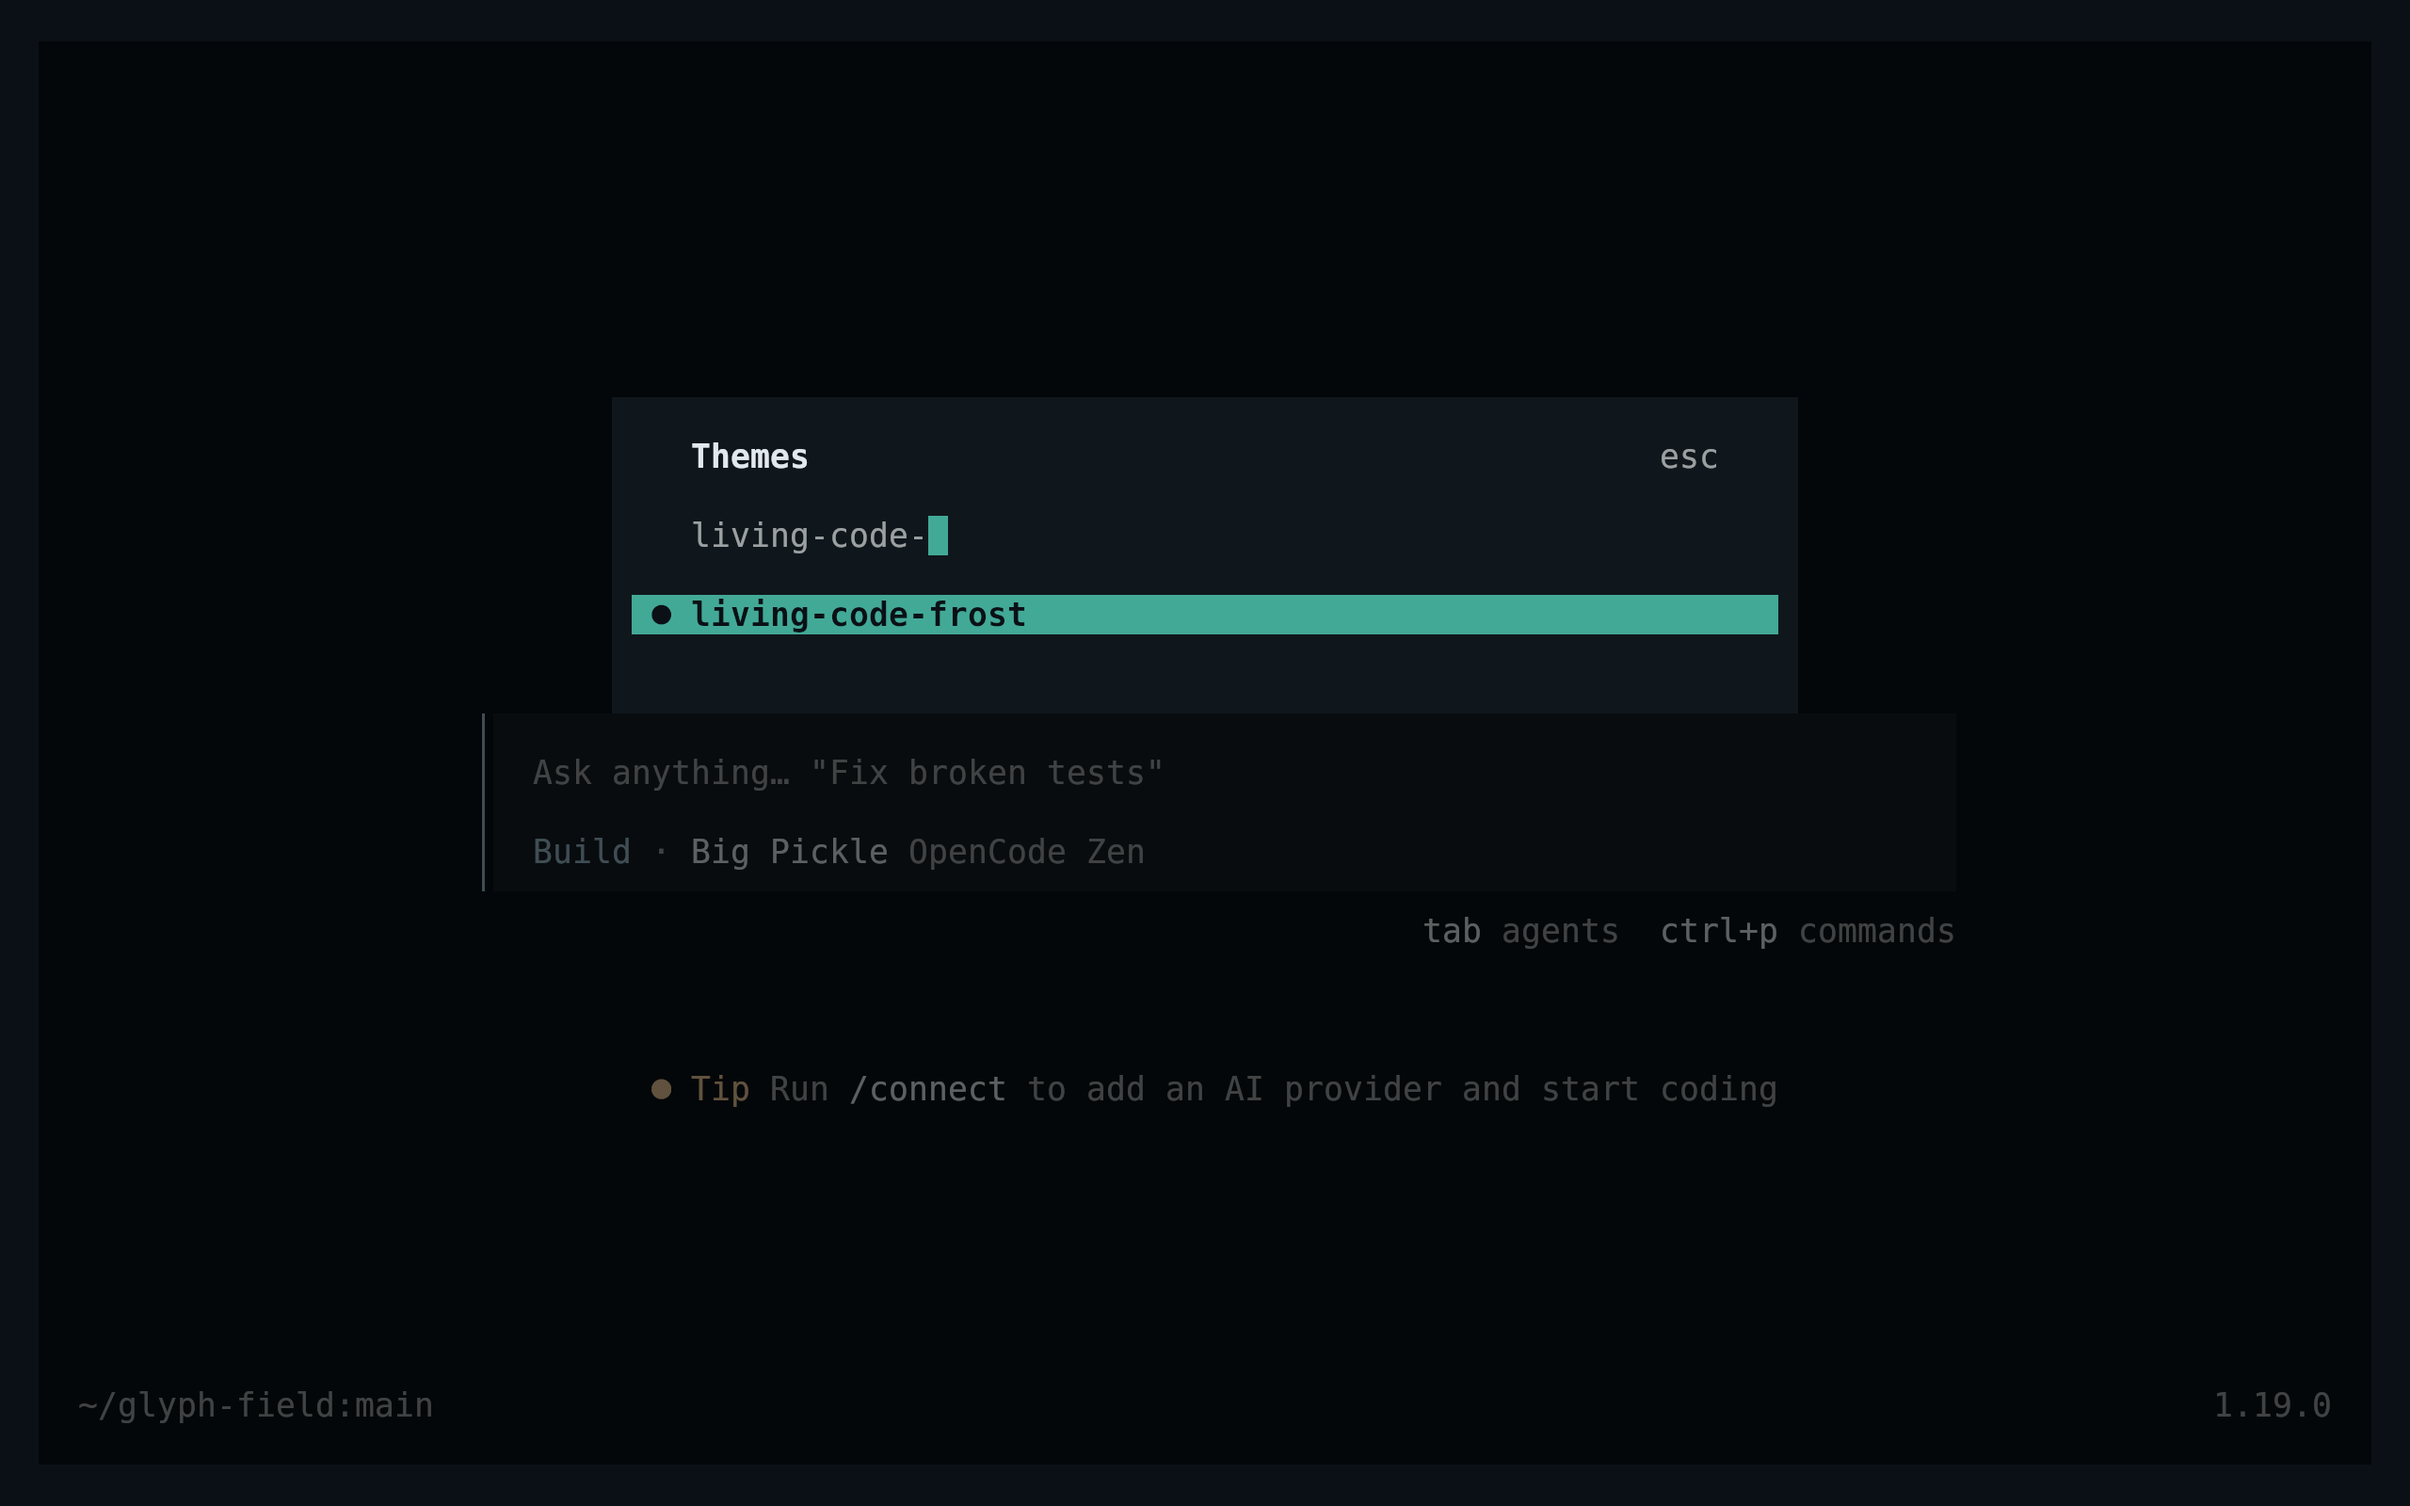
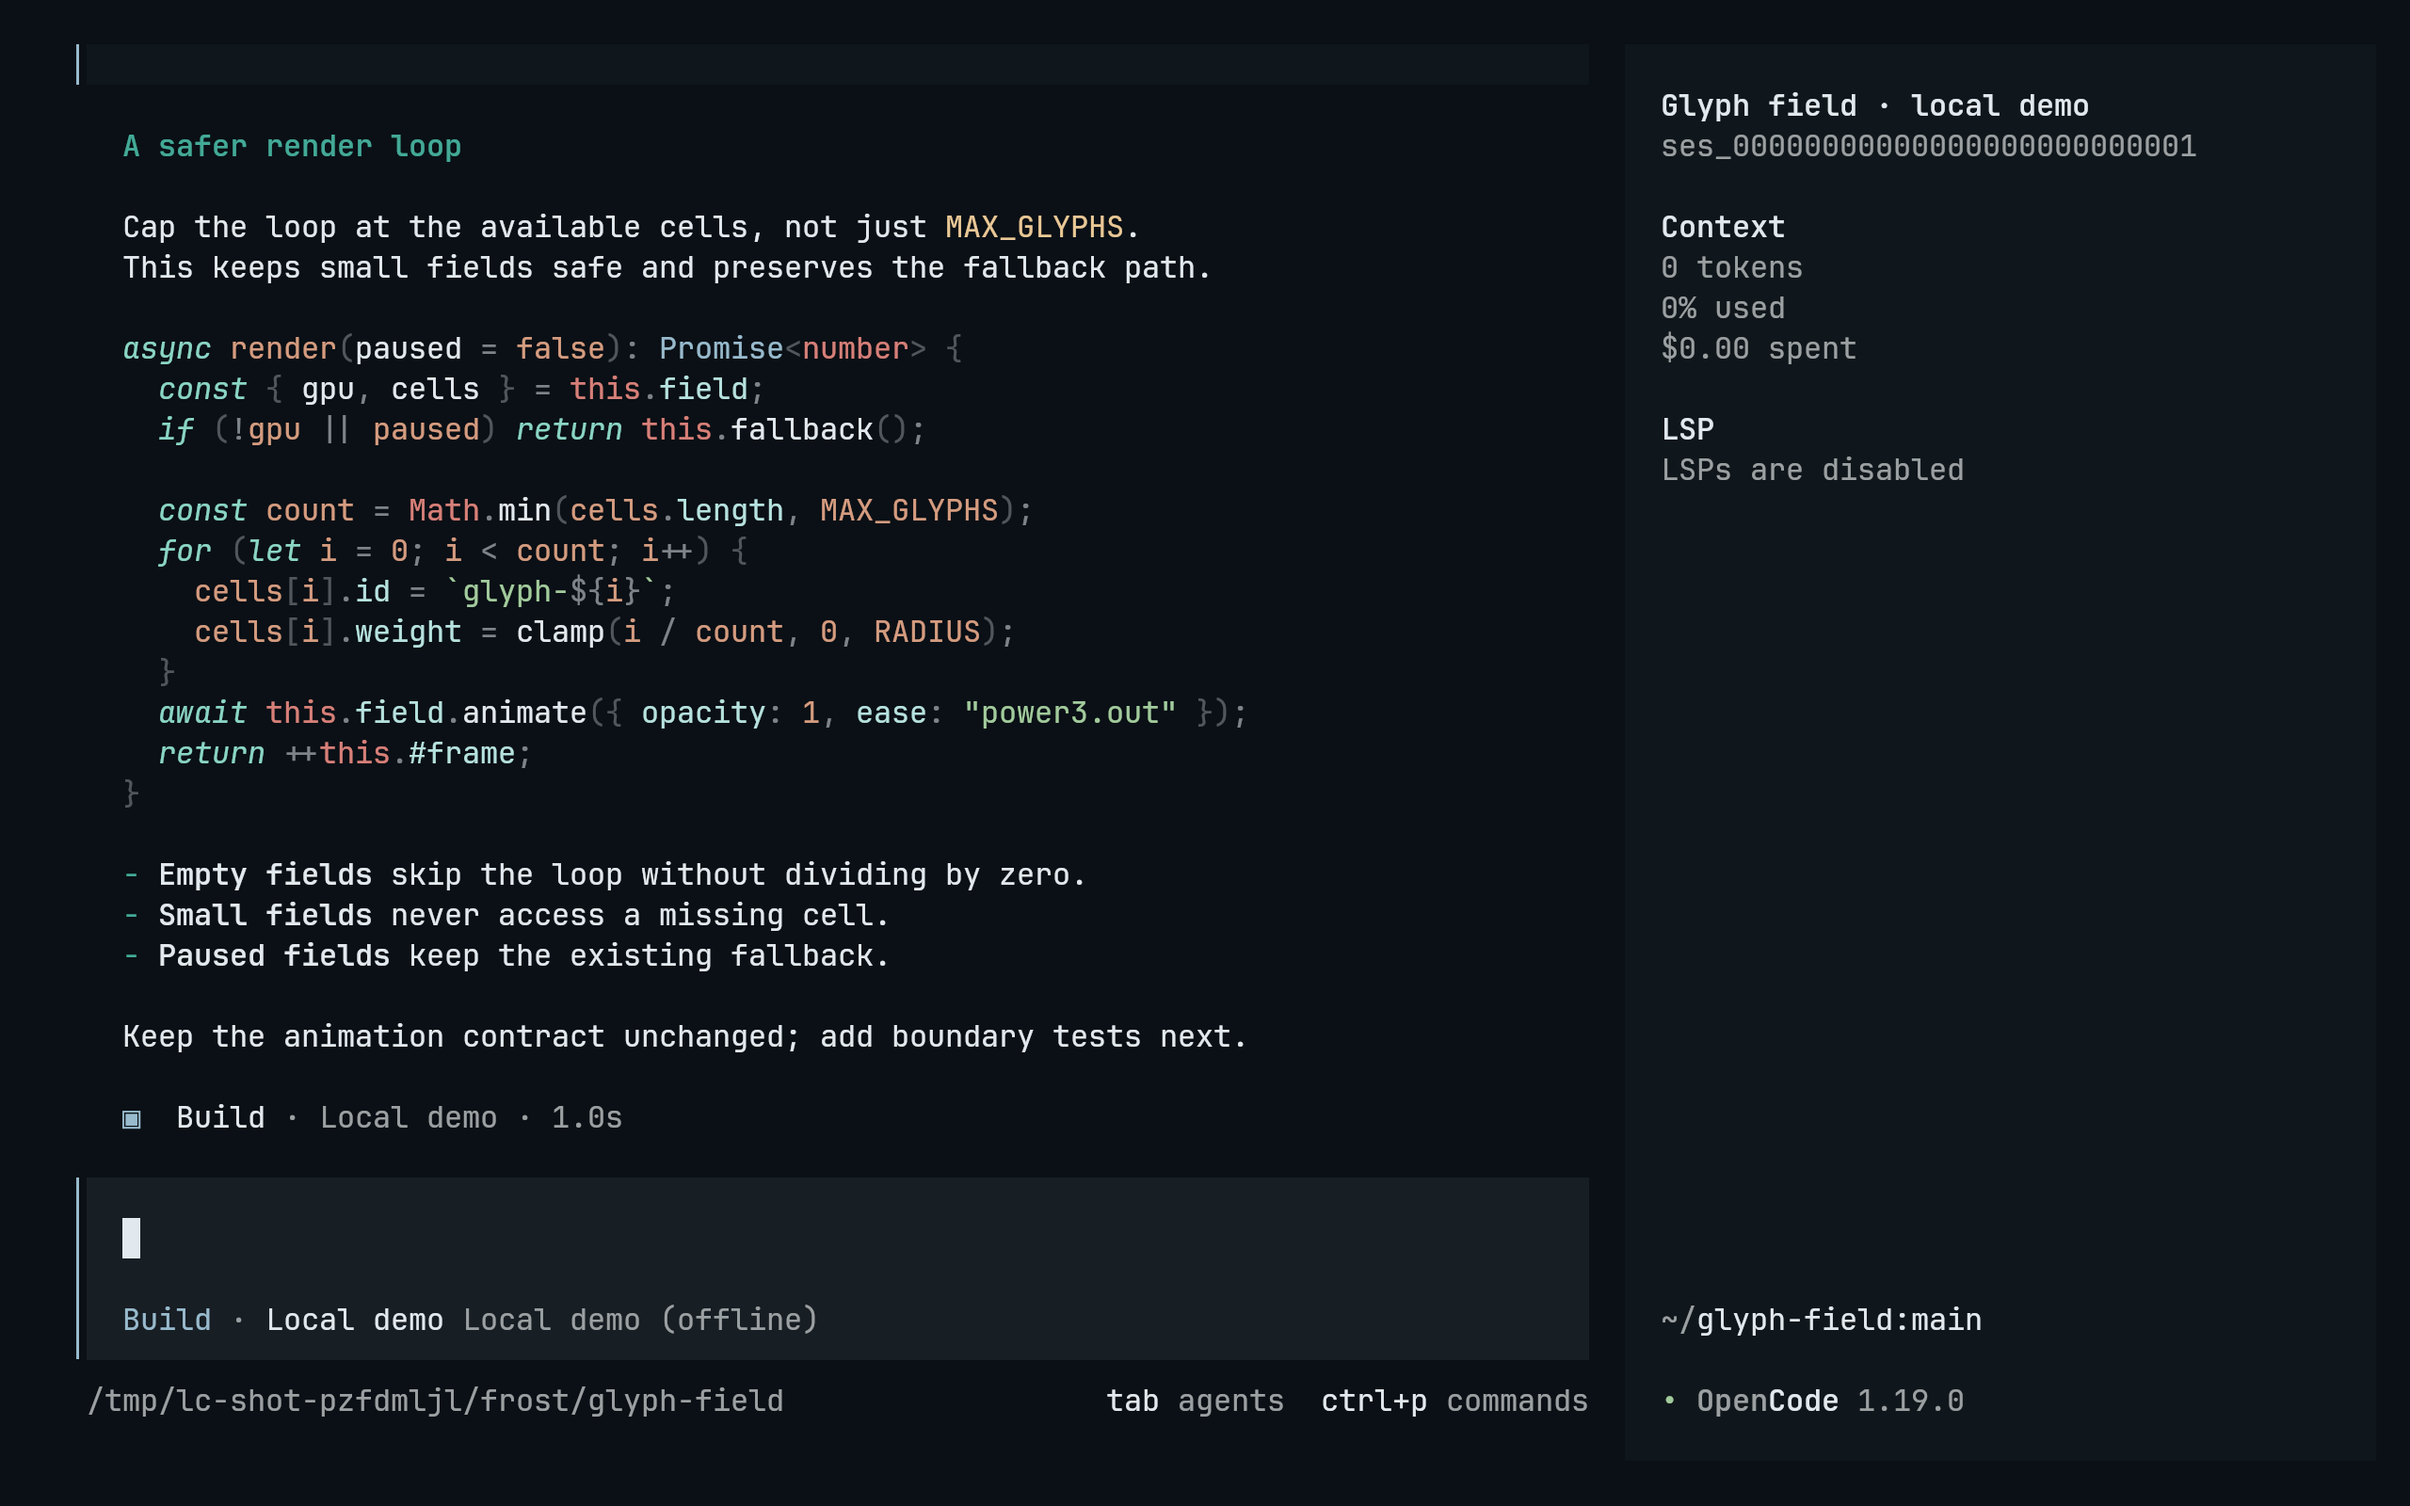
feat: refresh native review previews and verify syntax roles

diff --git a/capture/app.py b/capture/app.py
@@ -1,22 +1,51 @@
-"""Capture OpenCode's actual v1 TUI and its native theme selector."""
+"""Import a port-owned local demo and capture OpenCode's native session view."""
 import json
+
+
+SESSION = 'ses_00000000000000000000000001'
 
 
 def prepare(c):
     c.git_fixture()
     c.copy(f'themes/{c.slug}.json', f'.config/opencode/themes/{c.slug}.json')
     c.write('.config/opencode/tui.json', json.dumps({'theme': c.slug}))
-    c.write('.config/opencode/opencode.json', '{}\n')
+    c.write('.config/opencode/opencode.json', json.dumps({
+        'model': 'local-demo/offline',
+        'provider': {'local-demo': {'name': 'Local demo (offline)', 'npm': '@ai-sdk/openai-compatible',
+            'options': {'baseURL': 'http://127.0.0.1:9/v1', 'apiKey': 'capture-not-a-real-key'},
+            'models': {'offline': {'name': 'Local demo'}}}},
+    }))
     c.env.update(OPENCODE_DISABLE_AUTOUPDATE='true', OPENCODE_DISABLE_MODELS_FETCH='true',
                  OPENCODE_DISABLE_LSP_DOWNLOAD='true', OPENCODE_DISABLE_DEFAULT_PLUGINS='true')
-    return ['opencode']
+    timestamp = 1767268800000
+    model = {'providerID': 'local-demo', 'modelID': 'offline'}
+    user = 'msg_00000000000000000000000001'
+    assistant = 'msg_00000000000000000000000002'
+    def message(info, text, part):
+        return {'info': {**info, 'sessionID': SESSION}, 'parts': [{
+            'id': part, 'sessionID': SESSION, 'messageID': info['id'], 'type': 'text', 'text': text}]}
+    session = {
+        'info': {'id': SESSION, 'slug': 'glyph-field-demo', 'projectID': 'global', 'directory': str(c.work),
+                 'title': 'Glyph field · local demo', 'version': '1.19.0',
+                 'time': {'created': timestamp, 'updated': timestamp + 1000}},
+        'messages': [
+            message({'id': user, 'role': 'user', 'time': {'created': timestamp}, 'agent': 'build', 'model': model},
+                    'Review the glyph render loop and suggest a safer implementation. (Local demo)',
+                    'prt_00000000000000000000000001'),
+            message({'id': assistant, 'role': 'assistant', 'parentID': user,
+                     'time': {'created': timestamp + 1, 'completed': timestamp + 1000},
+                     **model, 'mode': 'build', 'agent': 'build', 'path': {'cwd': str(c.work), 'root': str(c.work)},
+                     'cost': 0, 'tokens': {'input': 0, 'output': 0, 'reasoning': 0, 'cache': {'read': 0, 'write': 0}},
+                     'finish': 'stop'}, (c.root / 'capture/review.md').read_text(),
+                    'prt_00000000000000000000000002'),
+        ],
+    }
+    fixture = c.write('demo-session.json', json.dumps(session))
+    result = c.run(['opencode', 'import', fixture])
+    if f'Imported session: {SESSION}' not in result:
+        raise RuntimeError('OpenCode did not import the local demo: ' + result)
+    return ['opencode', '--session', SESSION]
 
 
 def drive(c):
-    c.wait_text(r'1\.19\.0')
-    c.type('/themes')
-    c.wait_text(r'Switch theme')
-    c.key('enter')
-    c.wait_text(r'Themes')
-    c.type('living-code-')
-    c.wait_text(c.slug)  # The full flavor name must be an actual native search result, not merely typed input.
+    c.wait_text(r'add boundary tests next')

diff --git a/scripts/capture.py b/scripts/capture.py
@@ -185,7 +185,7 @@ export class FieldRenderer {
         role = lambda name: colors[self.flavor['roles'][name]]['hex']
         options = {'linux_display_server': 'x11', 'hide_window_decorations': 'yes', 'remember_window_size': 'no',
                    'initial_window_width': str(WIDTH), 'initial_window_height': str(HEIGHT),
-                   'font_family': 'DejaVu Sans Mono', 'font_size': '26', 'window_padding_width': '24',
+                   'font_family': 'JetBrains Mono', 'font_size': '24', 'window_padding_width': '24',
                    'cursor_blink_interval': '0', 'enable_audio_bell': 'no', 'allow_remote_control': 'yes',
                    'background': role('bg'), 'foreground': role('fg'), 'cursor': role('cursor'),
                    'selection_background': role('selection'), 'selection_foreground': role('fg')}

diff --git a/README.md b/README.md
@@ -98,11 +98,13 @@ Choose `living-code-signal` with `/theme`, or set `"theme": "living-code-signal"
 
 The files use the OpenCode v1 `{ "theme": { … } }` JSON format. They provide every required color, explicit selected-item text and menu backgrounds. Every flavor is a separate theme, so Paper stays light even in a dark terminal. Put configuration in `tui.json`, not in the theme file; preserve any existing keybindings.
 
+All nine exposed `syntax*` colors follow the matching [Living Code Neovim](https://github.com/living-code-theme/nvim/blob/main/lua/living-code/highlights.lua) roles in every flavor. Tests compare native theme files against a pinned Neovim reference, not just UI accents. Token recognition and finer-grained mappings remain OpenCode’s responsibility. In OpenCode 1.19.0, `getSyntaxRules` also hardwires builtin scopes to the UI error color, constant identifiers to `syntaxNumber`, and parameters to `syntaxVariable`. Those couplings cannot all match Neovim’s distinct builtin, variable and parameter roles through the native nine-token API. This port verifies the exposed roles, not exact per-token parity that the application cannot express.
+
 ## Compatibility
 
 Targets the TUI theme format verified against OpenCode 1.19.0. This is not the web/desktop theme format. Truecolor gives the intended colors; reduced-color terminals approximate them. OpenCode 2 theme documents are a different API and are not claimed here. Syntax, Markdown and diff color contracts are checked independently of generation.
 
-Previews are captured programmatically from the actual application in an isolated profile. See [`capture/app.py`](capture/app.py) for the app-owned recipe and [`images/capture.json`](images/capture.json) for runtime, palette and image provenance. No mock interface is drawn.
+Previews are captured programmatically from the actual application in an isolated profile. See [`capture/app.py`](capture/app.py) for the app-owned recipe and [`images/capture.json`](images/capture.json) for runtime, palette and image provenance. No mock interface is drawn. The conversation is a labeled, repository-owned local demo, not a private session or a live model response. Recapturing needs no account, subscription or paid API call.
 
 ## Contributing
 

diff --git a/capture/review.md b/capture/review.md
@@ -1,0 +1,25 @@
+## A safer render loop
+
+Cap the loop at the available cells, not just `MAX_GLYPHS`.
+This keeps small fields safe and preserves the fallback path.
+
+```typescript
+async render(paused = false): Promise<number> {
+  const { gpu, cells } = this.field;
+  if (!gpu || paused) return this.fallback();
+
+  const count = Math.min(cells.length, MAX_GLYPHS);
+  for (let i = 0; i < count; i++) {
+    cells[i].id = `glyph-${i}`;
+    cells[i].weight = clamp(i / count, 0, RADIUS);
+  }
+  await this.field.animate({ opacity: 1, ease: "power3.out" });
+  return ++this.#frame;
+}
+```
+
+- **Empty fields** skip the loop without dividing by zero.
+- **Small fields** never access a missing cell.
+- **Paused fields** keep the existing fallback.
+
+Keep the animation contract unchanged; add boundary tests next.
